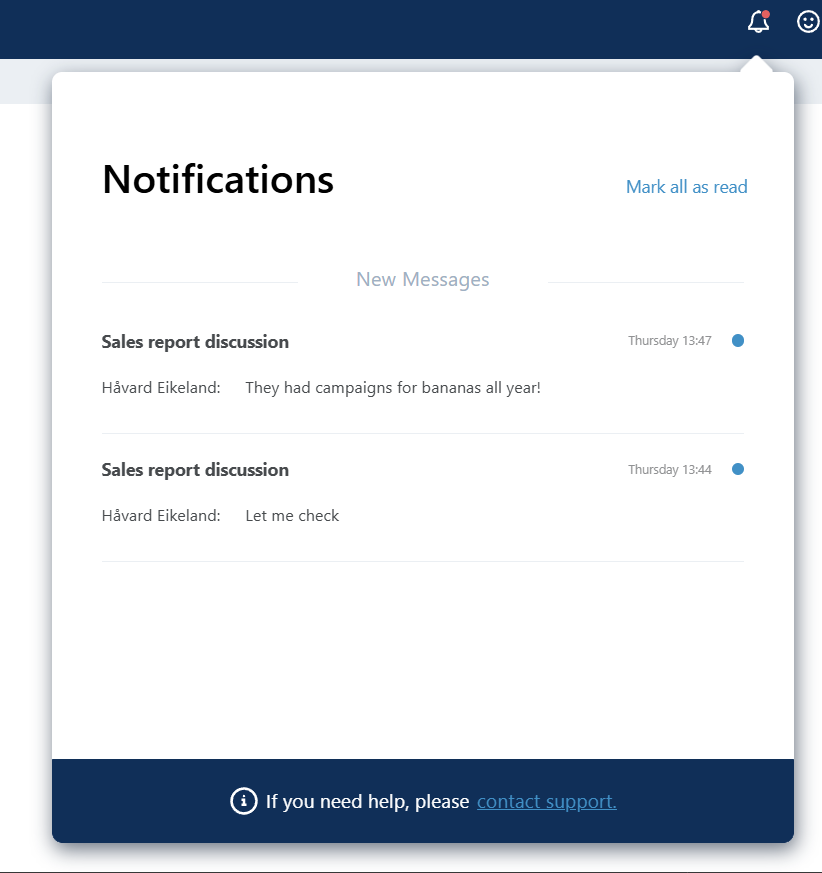
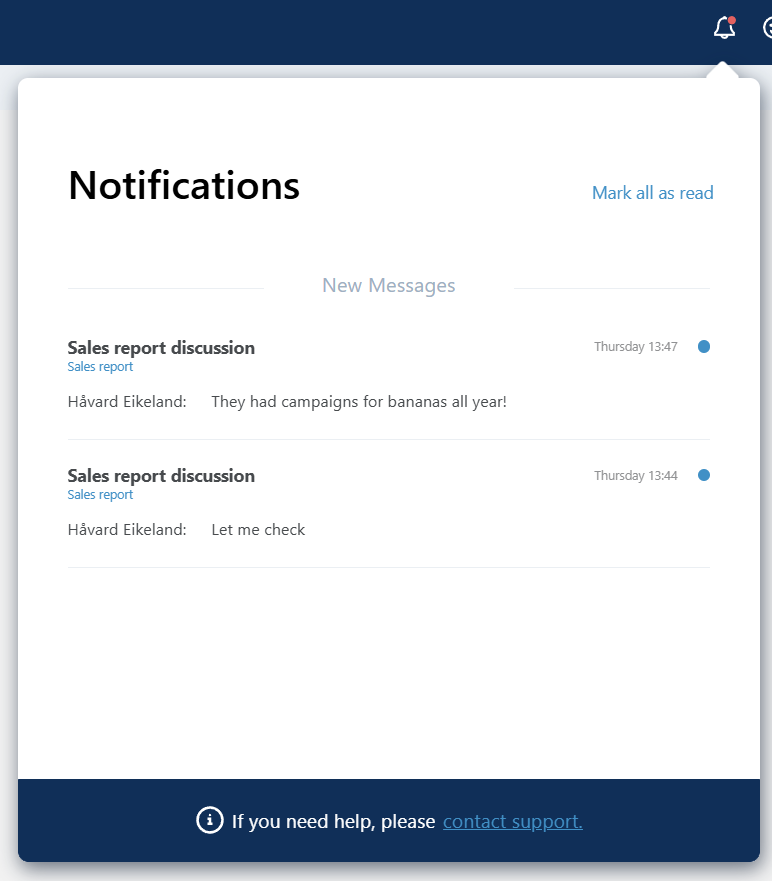
add docs for notifications appHeader feature, for unread user chat messages

diff --git a/articles/invision/docs/workbooks/components/user-chat.md b/articles/invision/docs/workbooks/components/user-chat.md
@@ -11,18 +11,20 @@ The **User Chat** component provides real-time, context-aware communication dire
 
 - **Context-bound messaging**  
   Each chat instance is associated with a defined context scope (e.g., workbook page, filter state, selected row or object). Messages are stored together with the assigned context to ensure discussions remain relevant to the data being reviewed.
-
+<br/>
 - **Multiple chat instances per Workbook**  
   Solution developers can insert multiple independent chat components into a Workbook. This allows for fine-grained collaboration use cases such as:  
   - One chat per page or dashboard  
   - A global chat accessible from a popup  
   - Chats tied to specific entities or detail views (e.g., per customer record or project)
-
+<br/>
 - **Real-time communication**  
   New messages are synchronized in real time for all users currently viewing the same context.
-
+<br/>
 - **Notification integration**  
   To support asynchronous collaboration, a Flow can be triggered if a user does not see a new message within **5 minutes**. The Flow can then send an external notification (Email or Microsoft Teams) to ensure users are alerted to unread messages.
+
+<br/>
 
 #### Usage Scenarios
 
@@ -31,13 +33,13 @@ The **User Chat** component provides real-time, context-aware communication dire
 - Commenting on data points or anomalies  
 - Approval / feedback workflows tied to records
 
-
+<br/>
 
 ## Display in Workbook
 
 To display a Chat in a Workbook, drag and drop it from the toolbox. You can change size and placement in the Properties panel if you want to.
 
-Run the **Load Data**-action to setup the chat on the page. Go to **Events** - **Navigate to** - **Load Data** of the Chat.
+Run the **Load Data**-action to setup the chat on the page. Go to **Events** - **Navigated To** - **Load Data** of the Chat.
 
 
 ![img](../../../../../images/invision/user_chat_1.png)
@@ -46,10 +48,45 @@ Run the **Load Data**-action to setup the chat on the page. Go to **Events** - *
 
 ## Context Mapping
 
-Maps user chat reference contexts to values.
+Context Mapping allows you to associate user chat context items with specific values or dynamic expressions. This feature ensures that messages in the User Chat component can reference relevant data, such as filters or parameters, making interactions more meaningful and context-aware. You can map context items to fixed values or link them to dynamic filters that adapt to the current page content.
+
+If no context items are mapped, all messages for the component will be shown without filtering.
 
 ![img](../../../../../images/invision/user_chat_2.png)
 
+
+**Example** ![img](../../../../../../images/strz.jpg)  
+The above example shows an example where the context items **_Filter_by_company_** and **_Filter_by_department_** is given the fixed values: Filter_by_company = "Profitbase" and Filter_by_department = "Development". These context items may also be mapped to filters instead of fixed values to adapt dynamically to the page content, e.g.:
+
+```
+Filter("Filters", "Company").SelectedValue.Id
+Filter("Filters", "Department").SelectedValue.Id
+```
+
+
 <br/>
+
+## Context Text
+
+A chat may be connected to a specific context which can be described in the **_Context Link_** property of the workbook component. The text described in this property will appear on each message displayed for the user in the **_App Header Notifications_**-section. Read more [here](../../workbooks/components/uielements/app-header-notifications.md).
+
+![img](../../../../../images/invision/user_chat_context_text.png)
+
+**Example** ![img](../../../../../../images/strz.jpg)  
+The above example shows the property field **_Context Text_** for the User Chat Workbook component with the text **_Sales report_**.
+
+<br/>
+
+## Context Link
+
+Each message that includes a **_Context Text_** will display this text as a link when the **_Context Link_** property of the User Chat Workbook component is set; otherwise, it will appear as plain text.
+
+This link property may be just a simple url link, or logic details to be handled by the **_Notification Context Link Clicked_** handler on the **_App Header Notifications_**-section. Read more [here](../../workbooks/components/uielements/app-header-notifications.md).
+
+![img](../../../../../images/invision/user_chat_context_link.png)
+
+**Example** ![img](../../../../../../images/strz.jpg)  
+The above example shows the property field **_Context Link_** for the User Chat Workbook component with the text **_page=Sales_**.
+
 
 

diff --git a/articles/invision/docs/workbooks/components/uielements/app-header-notifications.md b/articles/invision/docs/workbooks/components/uielements/app-header-notifications.md
@@ -10,7 +10,9 @@ The App Header Notifications is shaped like button, showing a bell icon. When th
 
 <br/>
 
-You can access the App Header toolbar from the workbook toolbar by enabling the **_Show App Header designer_** checkbox. Then, add the **App Header Notifications** component. [Read more about App Header here](../../../header/header-section.md).
+You can access the App Header toolbar from the workbook toolbar by enabling the **_Show App Header designer_** checkbox. Then, add the **App Header Notifications** component. Read more about App Header [here](../../../header/header-section.md).
+
+<br/>
 
 ## Actions
 The App Header Notifications supports the following actions:
@@ -22,7 +24,7 @@ The App Header Notifications supports the following actions:
 | Execute expression  | Dynamically activates or deactivates the button using the EnableIf(boolean expression) function. [See example below](#example---execute-expression). |
 
 
-#### Example - Execute expression
+**Example: Execute Expression()**<br/>
 To dynamically set the enabled state of the button based on whether the _state.Counter is 0 or not, enter the following expression in the `Instructions` panel:
 
 ```javascript
@@ -59,7 +61,87 @@ Each message includes:<br/>
 
 <br/>
 
+## Context Text and Context Link
+
+If the **User Chat Workbook** component is configured with:
+
+* **Context Text**
+* **Context Link**
+
+each message will display the provided **Context Text** as a clickable link.
+
+Read more about **Context Text** in the User Chat workbook component [here](../../../workbooks/components/user-chat.md#context-text)
+
+
+***
+
+![img](/images/invision/appheader-notifications-message-ctx-link.png)
+
+**Example** ![img](../../../../../../images/strz.jpg)  
+The above example shows an example of a message where the **_Context Text_** has been set to **_Sales report_**, made clickable because the **_Context Link_** is also provided.
+
+<br/>
+
+### Notification Context Link Clicked - event
+The **App Header Notifications** component requires the event handler **_Notification Context Link Clicked_** to process context link clicks. This handler must be implemented to handle the link as needed.
+
+For example:
+
+* Process the data passed as the link argument and navigate to the desired location, workbook, page, filter, etc.
+* Navigate directly to a URL.
+
+<br/>
+
+![img](/images/invision/appheader-notifications-message-ctx-link-click-handler.png)
+
+**Example** ![img](../../../../../../images/strz.jpg)  
+The example above shows a **_Notification Context Link Clicked_** handler with an **Action** of type **Execute Expression()**, where the instruction is set to: **_alert(Event.Data)_**.
+
+<br />
+
+The argument **Event.Data** contains the value provided from the User Chat Workbook component in the **_Context Link_**-property.
+
+```javascript
+const contextLink = Event.Data
+```
+
+
+<br/>
+
+![img](/images/invision/appheader-notifications-message-ctx-link-click-handler-result.png)
+
+**Example** ![img](../../../../../../images/strz.jpg)  
+The example above shows the result of the alert function added to the instructions of the **Execute Expression()** of the handler, where the value set in **_Context Link_** property is **_page=Sales_**.
+
+Read more about **Context Link** on the User Chat workbook component [here](../../../workbooks/components/user-chat.md#context-link)
+
+The data provided can be logic data that has to be processed by the handler, or just a simple url.
+
+<br/>
+
 ## Styling
 The style of the App Header Notifications cannot be customized. This is intentional, as it inherits the standard appearance of system App Header buttons.
+
+<br/>
+
+## Examples
+
+**Example simple url**
+```javascript
+window.location.href = Event.Data
+```
+
+**Example complex data - e.g. when Event.Data is 'page=Sales'**
+```javascript
+const args = Event.Data.split('|').reduce((acc, pair) => {
+  const [key, value] = pair.split('=');
+  acc[key] = value;
+  return acc;
+}, {})
+
+window.location.href = 'myworkbook/p=' + args.page
+```
+
+
 
 
